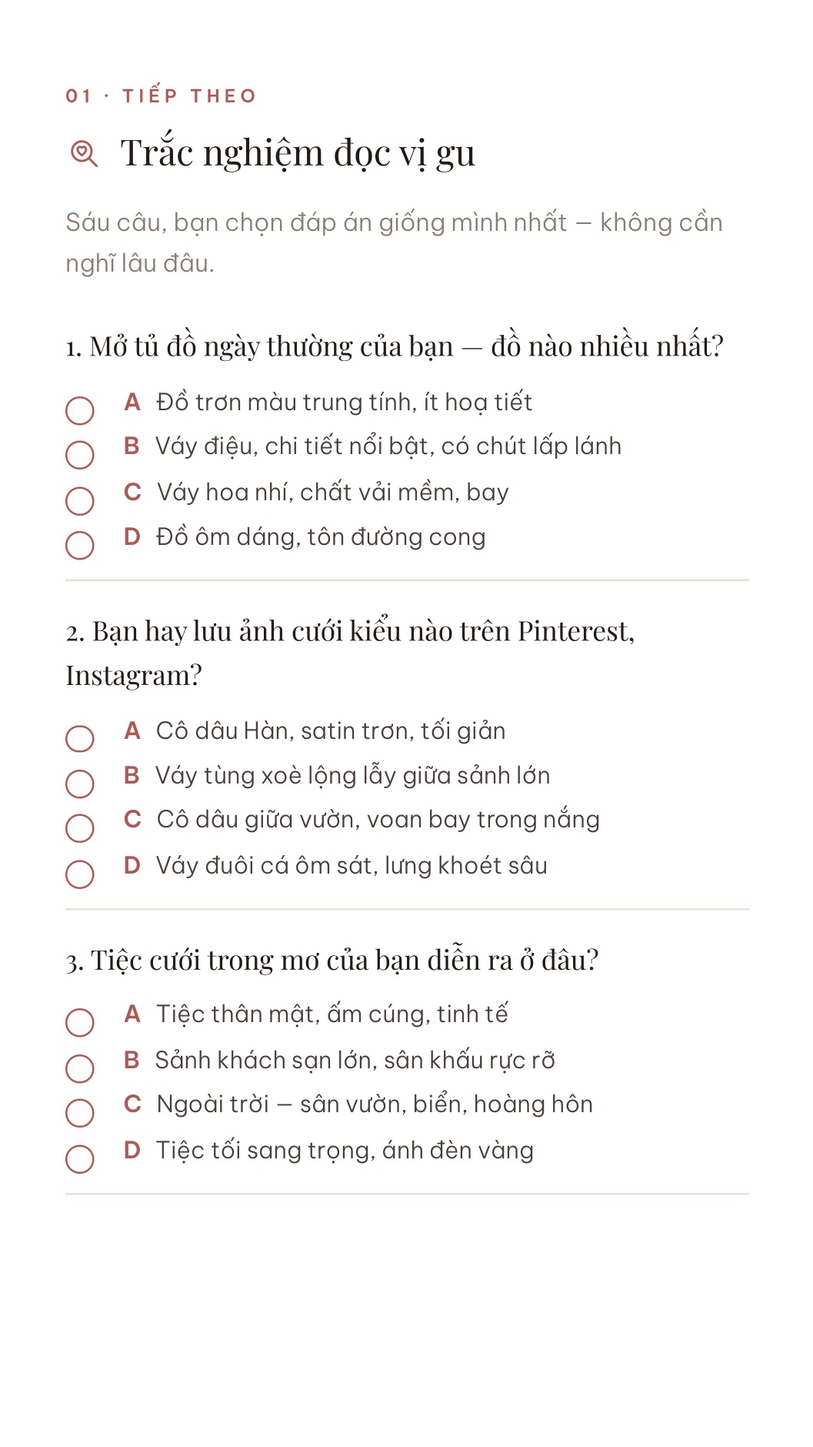
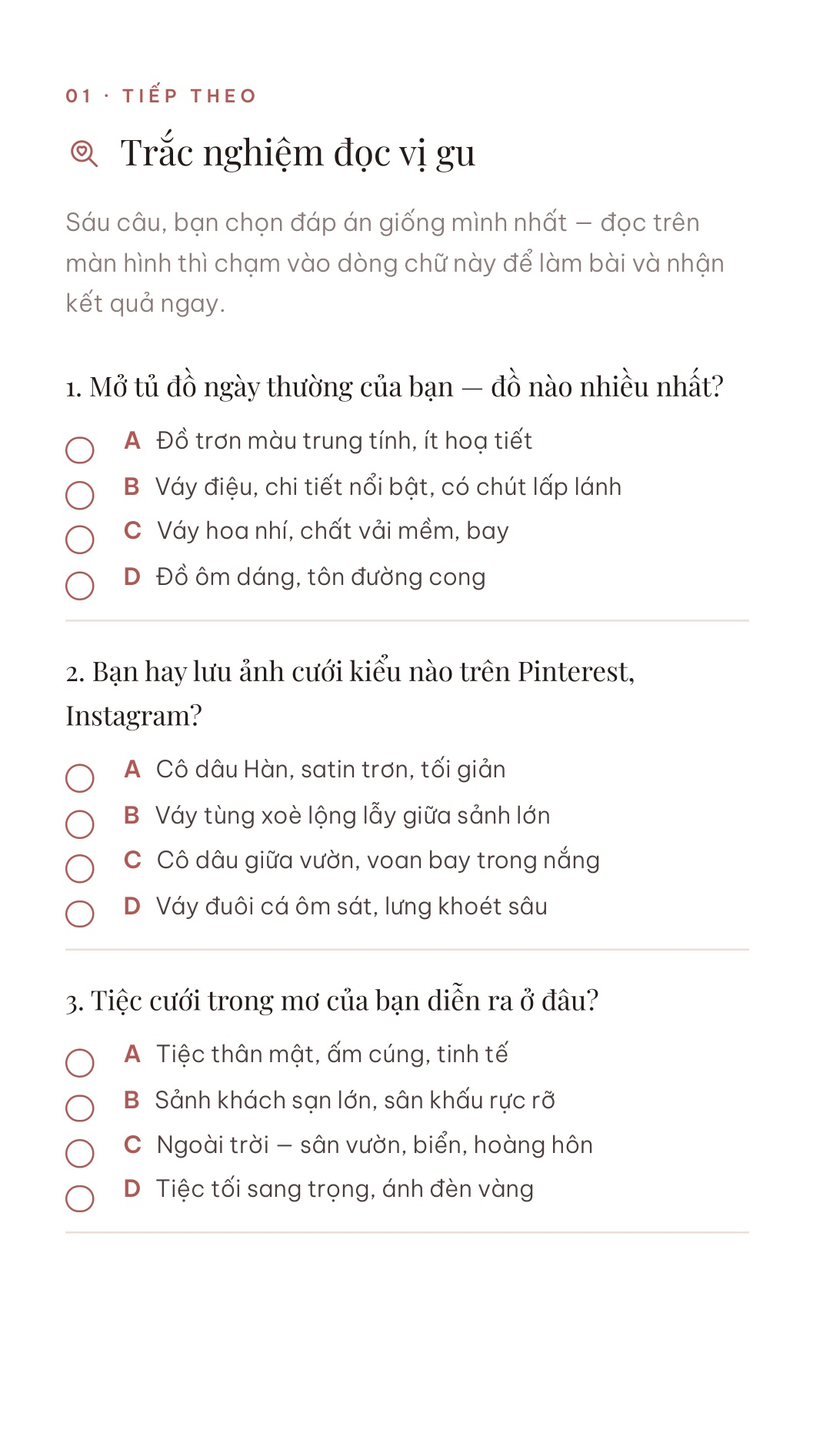
Ebook: trac nghiem gu BAM DUOC trong ban lat — diem bam mo bai lam that, chon du 6 cau ra ket qua gu (v y282149)

Changed region(s): [[0.0624, 0.1543, 0.8742, 0.833], [0.7181, 0.1234, 0.8742, 0.1851], [0.6244, 0.1543, 0.6556, 0.1851]]

diff --git a/dress-guide.html b/dress-guide.html
@@ -4,7 +4,7 @@
 <meta charset="utf-8">
 <meta name="viewport" content="width=device-width,initial-scale=1">
 <meta name="description" content="Cẩm nang tặng cô dâu: 7 điều cần biết trước khi chọn váy cưới — Dolinhanh Bridal.">
-<script>window.__ANH__=["dress-guide/t01.jpg?v=y282136", "dress-guide/t02.jpg?v=y282136", "dress-guide/t03.jpg?v=y282136", "dress-guide/t04.jpg?v=y282136", "dress-guide/t05.jpg?v=y282136", "dress-guide/t06.jpg?v=y282136", "dress-guide/t07.jpg?v=y282136", "dress-guide/t08.jpg?v=y282136", "dress-guide/t09.jpg?v=y282136", "dress-guide/t10.jpg?v=y282136", "dress-guide/t11.jpg?v=y282136", "dress-guide/t12.jpg?v=y282136", "dress-guide/t13.jpg?v=y282136", "dress-guide/t14.jpg?v=y282136", "dress-guide/t15.jpg?v=y282136", "dress-guide/t16.jpg?v=y282136", "dress-guide/t17.jpg?v=y282136", "dress-guide/t18.jpg?v=y282136", "dress-guide/t19.jpg?v=y282136", "dress-guide/t20.jpg?v=y282136", "dress-guide/t21.jpg?v=y282136", "dress-guide/t22.jpg?v=y282136", "dress-guide/t23.jpg?v=y282136", "dress-guide/t24.jpg?v=y282136", "dress-guide/t25.jpg?v=y282136", "dress-guide/t26.jpg?v=y282136", "dress-guide/t27.jpg?v=y282136"];window.__ANH_DT__=["dress-guide-dt/t001.jpg?v=y282136", "dress-guide-dt/t002.jpg?v=y282136", "dress-guide-dt/t003.jpg?v=y282136", "dress-guide-dt/t004.jpg?v=y282136", "dress-guide-dt/t005.jpg?v=y282136", "dress-guide-dt/t006.jpg?v=y282136", "dress-guide-dt/t007.jpg?v=y282136", "dress-guide-dt/t008.jpg?v=y282136", "dress-guide-dt/t009.jpg?v=y282136", "dress-guide-dt/t010.jpg?v=y282136", "dress-guide-dt/t011.jpg?v=y282136", "dress-guide-dt/t012.jpg?v=y282136", "dress-guide-dt/t013.jpg?v=y282136", "dress-guide-dt/t014.jpg?v=y282136", "dress-guide-dt/t015.jpg?v=y282136", "dress-guide-dt/t016.jpg?v=y282136", "dress-guide-dt/t017.jpg?v=y282136", "dress-guide-dt/t018.jpg?v=y282136", "dress-guide-dt/t019.jpg?v=y282136", "dress-guide-dt/t020.jpg?v=y282136", "dress-guide-dt/t021.jpg?v=y282136", "dress-guide-dt/t022.jpg?v=y282136", "dress-guide-dt/t023.jpg?v=y282136", "dress-guide-dt/t024.jpg?v=y282136", "dress-guide-dt/t025.jpg?v=y282136", "dress-guide-dt/t026.jpg?v=y282136", "dress-guide-dt/t027.jpg?v=y282136", "dress-guide-dt/t028.jpg?v=y282136", "dress-guide-dt/t029.jpg?v=y282136", "dress-guide-dt/t030.jpg?v=y282136", "dress-guide-dt/t031.jpg?v=y282136", "dress-guide-dt/t032.jpg?v=y282136", "dress-guide-dt/t033.jpg?v=y282136", "dress-guide-dt/t034.jpg?v=y282136", "dress-guide-dt/t035.jpg?v=y282136", "dress-guide-dt/t036.jpg?v=y282136", "dress-guide-dt/t037.jpg?v=y282136", "dress-guide-dt/t038.jpg?v=y282136", "dress-guide-dt/t039.jpg?v=y282136", "dress-guide-dt/t040.jpg?v=y282136", "dress-guide-dt/t041.jpg?v=y282136", "dress-guide-dt/t042.jpg?v=y282136", "dress-guide-dt/t043.jpg?v=y282136", "dress-guide-dt/t044.jpg?v=y282136", "dress-guide-dt/t045.jpg?v=y282136", "dress-guide-dt/t046.jpg?v=y282136", "dress-guide-dt/t047.jpg?v=y282136", "dress-guide-dt/t048.jpg?v=y282136", "dress-guide-dt/t049.jpg?v=y282136"];window.__TI_DT__=1.777;window.__DIEM_DT__=[{"nhan": "Chuẩn bị trước buổi thử", "ten": "Đồ lót nào mặc được?", "mo": "Nguyên tắc chung: màu nude, không quai, không gọng to, không đường viền. Bốn kiểu trong hình đều dùng được cho gần như mọi mẫu váy. Phần lớn váy cưới đã có corset nâng và mút đệm ngực khâu sẵn — nhiều cô dâu chỉ mặc quần lót nude là đủ.", "p": 10, "x": 0.213, "y": 0.2374, "w": 0.2757, "h": 0.0278, "toi": 12, "anh": "dress-guide/hs-dolot.jpg?v=y282136"}, {"nhan": "Chuẩn bị trước buổi thử", "ten": "Ngày cưới nên mang mấy đôi?", "mo": "Ba đôi là đủ cho mọi tình huống. Đế bánh mì đi trong váy xoè — tùng váy che kín dép, đứng cả buổi không mỏi chân. Cao gót cho những mẫu hở chân như đuôi cá hay xẻ tà, gót 5–7cm là vừa. Và một đôi đế thấp để trong phòng chờ, khi chân đã mỏi thì thay ra.", "p": 10, "x": 0.138, "y": 0.3438, "w": 0.7211, "h": 0.0571, "toi": 14, "anh": "dress-guide/hs-giay.jpg?v=y282136"}, {"nhan": "Chuẩn bị trước buổi thử", "ten": "Vì sao lại là 5 mẫu?", "mo": "Năm mẫu vừa đủ để so bốn dáng cơ bản và thêm một mẫu “lạ” cho biết, mà không loạn. Gửi trước danh sách cho studio để váy được treo sẵn — đỡ mất ba mươi phút đầu buổi chỉ để đi tìm váy.", "p": 10, "x": 0.5176, "y": 0.6563, "w": 0.3832, "h": 0.0278}, {"nhan": "Bước tiếp theo", "ten": "Cẩm nang cưới — 99.000đ", "mo": "Năm mươi tám trang, sáu chặng, mỗi chặng một màu và có ảnh riêng. Mở đầu bằng bài trắc nghiệm tính cách theo DISC cho cả hai người, rồi tới 30 câu hai người phải hỏi nhau, hai gia đình, sáu tháng chuẩn bị (gồm trọn phần chọn váy), ngày cưới, và phần sau đám cưới.", "lien": "https://dolinhanh-bridal.github.io/web-thu/mua-planner.html", "nutChu": "Xem thử vài trang", "p": 48, "x": 0.1372, "y": 0.4388, "w": 0.2862, "h": 0.1902, "anh": "dress-guide/hs-planner.jpg?v=y282136"}, {"nhan": "Bước tiếp theo", "ten": "Nhắn Zalo để nhận file", "mo": "Chuyển khoản xong, bạn nhắn ảnh chụp màn hình tới Zalo 035 995 0588. Dolinhanh gửi lại file PDF và đường dẫn đọc trên điện thoại ngay trong ngày.", "lien": "https://zalo.me/0359950588", "nutChu": "Mở Zalo 035 995 0588", "p": 48, "x": 0.3828, "y": 0.7382, "w": 0.2156, "h": 0.0251}];window.__DIEM__=[{"nhan": "Chuẩn bị trước buổi thử", "ten": "Đồ lót nào mặc được?", "mo": "Nguyên tắc chung: màu nude, không quai, không gọng to, không đường viền. Bốn kiểu trong hình đều dùng được cho gần như mọi mẫu váy. Phần lớn váy cưới đã có corset nâng và mút đệm ngực khâu sẵn — nhiều cô dâu chỉ mặc quần lót nude là đủ.", "p": 7, "x": 0.1707, "y": 0.2032, "w": 0.1469, "h": 0.0211, "toi": 8, "anh": "dress-guide/hs-dolot.jpg?v=y282136"}, {"nhan": "Chuẩn bị trước buổi thử", "ten": "Ngày cưới nên mang mấy đôi?", "mo": "Ba đôi là đủ cho mọi tình huống. Đế bánh mì đi trong váy xoè — tùng váy che kín dép, đứng cả buổi không mỏi chân. Cao gót cho những mẫu hở chân như đuôi cá hay xẻ tà, gót 5–7cm là vừa. Và một đôi đế thấp để trong phòng chờ, khi chân đã mỏi thì thay ra.", "p": 7, "x": 0.2229, "y": 0.2616, "w": 0.4041, "h": 0.0211, "toi": 9, "anh": "dress-guide/hs-giay.jpg?v=y282136"}, {"nhan": "Chuẩn bị trước buổi thử", "ten": "Vì sao lại là 5 mẫu?", "mo": "Năm mẫu vừa đủ để so bốn dáng cơ bản và thêm một mẫu “lạ” cho biết, mà không loạn. Gửi trước danh sách cho studio để váy được treo sẵn — đỡ mất ba mươi phút đầu buổi chỉ để đi tìm váy.", "p": 7, "x": 0.333, "y": 0.4108, "w": 0.2042, "h": 0.0211}, {"nhan": "Bước tiếp theo", "ten": "Cẩm nang cưới — 99.000đ", "mo": "Năm mươi tám trang, sáu chặng, mỗi chặng một màu và có ảnh riêng. Mở đầu bằng bài trắc nghiệm tính cách theo DISC cho cả hai người, rồi tới 30 câu hai người phải hỏi nhau, hai gia đình, sáu tháng chuẩn bị (gồm trọn phần chọn váy), ngày cưới, và phần sau đám cưới.", "lien": "https://dolinhanh-bridal.github.io/web-thu/mua-planner.html", "nutChu": "Xem thử vài trang", "p": 26, "x": 0.1248, "y": 0.7732, "w": 0.1525, "h": 0.1442, "anh": "dress-guide/hs-planner.jpg?v=y282136"}, {"nhan": "Bước tiếp theo", "ten": "Nhắn Zalo để nhận file", "mo": "Chuyển khoản xong, bạn nhắn ảnh chụp màn hình tới Zalo 035 995 0588. Dolinhanh gửi lại file PDF và đường dẫn đọc trên điện thoại ngay trong ngày.", "lien": "https://zalo.me/0359950588", "nutChu": "Mở Zalo 035 995 0588", "p": 26, "x": 0.3035, "y": 0.858, "w": 0.1149, "h": 0.0191}];</script>
+<script>window.__ANH__=["dress-guide/t01.jpg?v=y282149", "dress-guide/t02.jpg?v=y282149", "dress-guide/t03.jpg?v=y282149", "dress-guide/t04.jpg?v=y282149", "dress-guide/t05.jpg?v=y282149", "dress-guide/t06.jpg?v=y282149", "dress-guide/t07.jpg?v=y282149", "dress-guide/t08.jpg?v=y282149", "dress-guide/t09.jpg?v=y282149", "dress-guide/t10.jpg?v=y282149", "dress-guide/t11.jpg?v=y282149", "dress-guide/t12.jpg?v=y282149", "dress-guide/t13.jpg?v=y282149", "dress-guide/t14.jpg?v=y282149", "dress-guide/t15.jpg?v=y282149", "dress-guide/t16.jpg?v=y282149", "dress-guide/t17.jpg?v=y282149", "dress-guide/t18.jpg?v=y282149", "dress-guide/t19.jpg?v=y282149", "dress-guide/t20.jpg?v=y282149", "dress-guide/t21.jpg?v=y282149", "dress-guide/t22.jpg?v=y282149", "dress-guide/t23.jpg?v=y282149", "dress-guide/t24.jpg?v=y282149", "dress-guide/t25.jpg?v=y282149", "dress-guide/t26.jpg?v=y282149", "dress-guide/t27.jpg?v=y282149"];window.__ANH_DT__=["dress-guide-dt/t001.jpg?v=y282149", "dress-guide-dt/t002.jpg?v=y282149", "dress-guide-dt/t003.jpg?v=y282149", "dress-guide-dt/t004.jpg?v=y282149", "dress-guide-dt/t005.jpg?v=y282149", "dress-guide-dt/t006.jpg?v=y282149", "dress-guide-dt/t007.jpg?v=y282149", "dress-guide-dt/t008.jpg?v=y282149", "dress-guide-dt/t009.jpg?v=y282149", "dress-guide-dt/t010.jpg?v=y282149", "dress-guide-dt/t011.jpg?v=y282149", "dress-guide-dt/t012.jpg?v=y282149", "dress-guide-dt/t013.jpg?v=y282149", "dress-guide-dt/t014.jpg?v=y282149", "dress-guide-dt/t015.jpg?v=y282149", "dress-guide-dt/t016.jpg?v=y282149", "dress-guide-dt/t017.jpg?v=y282149", "dress-guide-dt/t018.jpg?v=y282149", "dress-guide-dt/t019.jpg?v=y282149", "dress-guide-dt/t020.jpg?v=y282149", "dress-guide-dt/t021.jpg?v=y282149", "dress-guide-dt/t022.jpg?v=y282149", "dress-guide-dt/t023.jpg?v=y282149", "dress-guide-dt/t024.jpg?v=y282149", "dress-guide-dt/t025.jpg?v=y282149", "dress-guide-dt/t026.jpg?v=y282149", "dress-guide-dt/t027.jpg?v=y282149", "dress-guide-dt/t028.jpg?v=y282149", "dress-guide-dt/t029.jpg?v=y282149", "dress-guide-dt/t030.jpg?v=y282149", "dress-guide-dt/t031.jpg?v=y282149", "dress-guide-dt/t032.jpg?v=y282149", "dress-guide-dt/t033.jpg?v=y282149", "dress-guide-dt/t034.jpg?v=y282149", "dress-guide-dt/t035.jpg?v=y282149", "dress-guide-dt/t036.jpg?v=y282149", "dress-guide-dt/t037.jpg?v=y282149", "dress-guide-dt/t038.jpg?v=y282149", "dress-guide-dt/t039.jpg?v=y282149", "dress-guide-dt/t040.jpg?v=y282149", "dress-guide-dt/t041.jpg?v=y282149", "dress-guide-dt/t042.jpg?v=y282149", "dress-guide-dt/t043.jpg?v=y282149", "dress-guide-dt/t044.jpg?v=y282149", "dress-guide-dt/t045.jpg?v=y282149", "dress-guide-dt/t046.jpg?v=y282149", "dress-guide-dt/t047.jpg?v=y282149", "dress-guide-dt/t048.jpg?v=y282149", "dress-guide-dt/t049.jpg?v=y282149"];window.__TI_DT__=1.777;window.__DIEM_DT__=[{"nhan": "Đọc vị bản thân", "ten": "Làm bài trắc nghiệm tại đây", "mo": "", "quiz": true, "p": 6, "x": 0.2713, "y": 0.1401, "w": 0.4323, "h": 0.0265}, {"nhan": "Chuẩn bị trước buổi thử", "ten": "Đồ lót nào mặc được?", "mo": "Nguyên tắc chung: màu nude, không quai, không gọng to, không đường viền. Bốn kiểu trong hình đều dùng được cho gần như mọi mẫu váy. Phần lớn váy cưới đã có corset nâng và mút đệm ngực khâu sẵn — nhiều cô dâu chỉ mặc quần lót nude là đủ.", "p": 10, "x": 0.213, "y": 0.2374, "w": 0.2757, "h": 0.0278, "toi": 12, "anh": "dress-guide/hs-dolot.jpg?v=y282149"}, {"nhan": "Chuẩn bị trước buổi thử", "ten": "Ngày cưới nên mang mấy đôi?", "mo": "Ba đôi là đủ cho mọi tình huống. Đế bánh mì đi trong váy xoè — tùng váy che kín dép, đứng cả buổi không mỏi chân. Cao gót cho những mẫu hở chân như đuôi cá hay xẻ tà, gót 5–7cm là vừa. Và một đôi đế thấp để trong phòng chờ, khi chân đã mỏi thì thay ra.", "p": 10, "x": 0.138, "y": 0.3438, "w": 0.7211, "h": 0.0571, "toi": 14, "anh": "dress-guide/hs-giay.jpg?v=y282149"}, {"nhan": "Chuẩn bị trước buổi thử", "ten": "Vì sao lại là 5 mẫu?", "mo": "Năm mẫu vừa đủ để so bốn dáng cơ bản và thêm một mẫu “lạ” cho biết, mà không loạn. Gửi trước danh sách cho studio để váy được treo sẵn — đỡ mất ba mươi phút đầu buổi chỉ để đi tìm váy.", "p": 10, "x": 0.5176, "y": 0.6563, "w": 0.3832, "h": 0.0278}, {"nhan": "Bước tiếp theo", "ten": "Cẩm nang cưới — 99.000đ", "mo": "Năm mươi tám trang, sáu chặng, mỗi chặng một màu và có ảnh riêng. Mở đầu bằng bài trắc nghiệm tính cách theo DISC cho cả hai người, rồi tới 30 câu hai người phải hỏi nhau, hai gia đình, sáu tháng chuẩn bị (gồm trọn phần chọn váy), ngày cưới, và phần sau đám cưới.", "lien": "https://dolinhanh-bridal.github.io/web-thu/mua-planner.html", "nutChu": "Xem thử vài trang", "p": 48, "x": 0.1372, "y": 0.4388, "w": 0.2862, "h": 0.1902, "anh": "dress-guide/hs-planner.jpg?v=y282149"}, {"nhan": "Bước tiếp theo", "ten": "Nhắn Zalo để nhận file", "mo": "Chuyển khoản xong, bạn nhắn ảnh chụp màn hình tới Zalo 035 995 0588. Dolinhanh gửi lại file PDF và đường dẫn đọc trên điện thoại ngay trong ngày.", "lien": "https://zalo.me/0359950588", "nutChu": "Mở Zalo 035 995 0588", "p": 48, "x": 0.3828, "y": 0.7382, "w": 0.2156, "h": 0.0251}];window.__DIEM__=[{"nhan": "Đọc vị bản thân", "ten": "Làm bài trắc nghiệm tại đây", "mo": "", "quiz": true, "p": 5, "x": 0.2013, "y": 0.153, "w": 0.2397, "h": 0.0207}, {"nhan": "Chuẩn bị trước buổi thử", "ten": "Đồ lót nào mặc được?", "mo": "Nguyên tắc chung: màu nude, không quai, không gọng to, không đường viền. Bốn kiểu trong hình đều dùng được cho gần như mọi mẫu váy. Phần lớn váy cưới đã có corset nâng và mút đệm ngực khâu sẵn — nhiều cô dâu chỉ mặc quần lót nude là đủ.", "p": 7, "x": 0.1707, "y": 0.2032, "w": 0.1469, "h": 0.0211, "toi": 8, "anh": "dress-guide/hs-dolot.jpg?v=y282149"}, {"nhan": "Chuẩn bị trước buổi thử", "ten": "Ngày cưới nên mang mấy đôi?", "mo": "Ba đôi là đủ cho mọi tình huống. Đế bánh mì đi trong váy xoè — tùng váy che kín dép, đứng cả buổi không mỏi chân. Cao gót cho những mẫu hở chân như đuôi cá hay xẻ tà, gót 5–7cm là vừa. Và một đôi đế thấp để trong phòng chờ, khi chân đã mỏi thì thay ra.", "p": 7, "x": 0.2229, "y": 0.2616, "w": 0.4041, "h": 0.0211, "toi": 9, "anh": "dress-guide/hs-giay.jpg?v=y282149"}, {"nhan": "Chuẩn bị trước buổi thử", "ten": "Vì sao lại là 5 mẫu?", "mo": "Năm mẫu vừa đủ để so bốn dáng cơ bản và thêm một mẫu “lạ” cho biết, mà không loạn. Gửi trước danh sách cho studio để váy được treo sẵn — đỡ mất ba mươi phút đầu buổi chỉ để đi tìm váy.", "p": 7, "x": 0.333, "y": 0.4108, "w": 0.2042, "h": 0.0211}, {"nhan": "Bước tiếp theo", "ten": "Cẩm nang cưới — 99.000đ", "mo": "Năm mươi tám trang, sáu chặng, mỗi chặng một màu và có ảnh riêng. Mở đầu bằng bài trắc nghiệm tính cách theo DISC cho cả hai người, rồi tới 30 câu hai người phải hỏi nhau, hai gia đình, sáu tháng chuẩn bị (gồm trọn phần chọn váy), ngày cưới, và phần sau đám cưới.", "lien": "https://dolinhanh-bridal.github.io/web-thu/mua-planner.html", "nutChu": "Xem thử vài trang", "p": 26, "x": 0.1248, "y": 0.7732, "w": 0.1525, "h": 0.1442, "anh": "dress-guide/hs-planner.jpg?v=y282149"}, {"nhan": "Bước tiếp theo", "ten": "Nhắn Zalo để nhận file", "mo": "Chuyển khoản xong, bạn nhắn ảnh chụp màn hình tới Zalo 035 995 0588. Dolinhanh gửi lại file PDF và đường dẫn đọc trên điện thoại ngay trong ngày.", "lien": "https://zalo.me/0359950588", "nutChu": "Mở Zalo 035 995 0588", "p": 26, "x": 0.3035, "y": 0.858, "w": 0.1149, "h": 0.0191}];</script>
 </head>
 <body>
 <title>The Bride's Dress Guide</title>
@@ -146,6 +146,22 @@
     border:1px solid #EEDFDB;background:#fff;color:#241B19;cursor:pointer;font-size:14px;line-height:1;
   }
 
+  /* ── trắc nghiệm đọc vị gu (làm ngay trong sách) ────── */
+  .qz-cau{margin-top:18px}
+  .qz-cau > b{display:block;font-family:var(--serif);font-weight:400;font-size:1.02rem;color:#241B19;margin-bottom:8px}
+  .qz-dap{display:grid;gap:6px}
+  .qz-dap button{
+    display:flex;align-items:baseline;gap:8px;text-align:left;width:100%;cursor:pointer;
+    border:1px solid #EEDFDB;background:#fff;color:#4C3E3B;border-radius:10px;
+    padding:9px 12px;font-family:var(--sans);font-size:.88rem;line-height:1.5;
+  }
+  .qz-dap button i{font-style:normal;font-weight:600;color:#B05A55;flex:none}
+  .qz-dap button.chon{background:#FDF0EE;border-color:#B05A55;color:#241B19}
+  .qz-kq{margin-top:20px;background:#FCF4EA;border-radius:10px;padding:16px 18px;font-size:.92rem;line-height:1.65;color:#4C3E3B}
+  .qz-kq .nhan-h{display:block;margin-bottom:6px}
+  .qz-kq h4{margin:0 0 6px;font-family:var(--serif);font-weight:400;font-size:1.25rem;color:#241B19}
+  .qz-lam-lai{margin-top:14px;background:none;border:0;cursor:pointer;color:#8B7B77;font-family:var(--sans);font-size:.72rem;letter-spacing:.08em;text-transform:uppercase;text-decoration:underline;padding:0}
+
   /* ── đọc to: phóng trang để đọc trên điện thoại ────── */
   .phong{position:fixed;inset:0;z-index:140;background:#fff;display:none;flex-direction:column}
   .phong.hien{display:flex}
@@ -229,6 +245,18 @@
   </div>
 </div>
 
+<div class="hop-nen" id="qz-nen">
+  <div class="hop-noi" role="dialog" aria-modal="true" aria-labelledby="qz-tieude">
+    <button class="hop-dong" id="qz-dong" aria-label="Đóng">✕</button>
+    <span class="nhan-h">Đọc vị bản thân</span>
+    <h3 id="qz-tieude">Trắc nghiệm đọc vị gu</h3>
+    <p style="margin-top:8px">Sáu câu, bạn chọn đáp án giống mình nhất — chọn đủ là kết quả hiện ngay bên dưới.</p>
+    <div id="qz-danh-sach"></div>
+    <div class="qz-kq" id="qz-kq" hidden></div>
+    <button class="qz-lam-lai" id="qz-lam-lai" hidden>Làm lại từ đầu</button>
+  </div>
+</div>
+
 <div class="luoi" id="luoi">
   <div class="dau">
     <b>Tất cả trang</b>
@@ -304,6 +332,7 @@
   var hopNen = document.getElementById('hop-nen');
 
   function moHop(d){
+    if (d.quiz){ moQuiz(); return; }
     var anh = document.getElementById('hop-anh');
     if (d.anh){ anh.src = d.anh; anh.hidden = false; } else { anh.hidden = true; anh.removeAttribute('src'); }
     document.getElementById('hop-nhan').textContent = d.nhan || 'Xem thêm';
@@ -391,6 +420,78 @@
 
   document.getElementById('hop-dong').addEventListener('click', function(){ hopNen.classList.remove('hien'); });
   hopNen.addEventListener('click', function(e){ if (e.target === hopNen) hopNen.classList.remove('hien'); });
+
+  /* ── trắc nghiệm đọc vị gu ── */
+  var QZ_NEN = document.getElementById('qz-nen');
+  var QZ = [
+    {q:'1. Mở tủ đồ ngày thường của bạn — đồ nào nhiều nhất?',
+     a:['Đồ trơn màu trung tính, ít hoạ tiết','Váy điệu, chi tiết nổi bật, có chút lấp lánh','Váy hoa nhí, chất vải mềm, bay','Đồ ôm dáng, tôn đường cong']},
+    {q:'2. Bạn hay lưu ảnh cưới kiểu nào trên Pinterest, Instagram?',
+     a:['Cô dâu Hàn, satin trơn, tối giản','Váy tùng xoè lộng lẫy giữa sảnh lớn','Cô dâu giữa vườn, voan bay trong nắng','Váy đuôi cá ôm sát, lưng khoét sâu']},
+    {q:'3. Tiệc cưới trong mơ của bạn diễn ra ở đâu?',
+     a:['Tiệc thân mật, ấm cúng, tinh tế','Sảnh khách sạn lớn, sân khấu rực rỡ','Ngoài trời — sân vườn, biển, hoàng hôn','Tiệc tối sang trọng, ánh đèn vàng']},
+    {q:'4. Trang sức ngày cưới, bạn chọn gì?',
+     a:['Ngọc trai nhỏ, hoặc chỉ một đôi bông tai','Vương miện và đá lấp lánh','Hoa tươi và voan mỏng cài tóc','Một món thật nổi bật, còn lại bỏ hết']},
+    {q:'5. Bạn muốn khách thốt lên câu nào khi bạn bước vào?',
+     a:['“Sang quá.”','“Đúng là công chúa.”','“Như bước ra từ giấc mơ.”','“Quyến rũ quá.”']},
+    {q:'6. Bạn sợ nhất điều gì khi mặc váy cưới?',
+     a:['Trông cố quá, không giống mình','Trông đơn giản quá, thiếu lộng lẫy','Trông cứng nhắc, thiếu lãng mạn','Trông an toàn, giống mọi cô dâu khác']}
+  ];
+  var QZ_KIEU = [
+    {ten:'Thanh lịch tối giản', mo:'Satin trơn, phom suông hoặc chữ A ít chi tiết — cái đẹp nằm ở đường cắt. Trong buổi thử, bạn hãy bắt đầu từ giá váy satin trơn.'},
+    {ten:'Công chúa lộng lẫy', mo:'Ballgown tùng xoè, đính kết lấp lánh, voan dài phía sau. Trong buổi thử, bạn hãy bắt đầu từ những mẫu tùng xoè.'},
+    {ten:'Mộng mơ bay bổng', mo:'Voan, organza nhiều lớp nhẹ như mây, tay voan mỏng. Trong buổi thử, bạn hãy bắt đầu từ những mẫu chất liệu bay.'},
+    {ten:'Quyến rũ hiện đại', mo:'Đuôi cá ôm dáng, ren xuyên thấu, lưng khoét sâu. Trong buổi thử, bạn hãy bắt đầu từ những mẫu ôm dáng.'}
+  ];
+  var qzChon = [];
+  function qzVe(){
+    var ds = document.getElementById('qz-danh-sach');
+    ds.innerHTML = '';
+    QZ.forEach(function(cau, i){
+      var khoi = document.createElement('div'); khoi.className = 'qz-cau';
+      var b = document.createElement('b'); b.textContent = cau.q; khoi.appendChild(b);
+      var dap = document.createElement('div'); dap.className = 'qz-dap';
+      cau.a.forEach(function(chu, j){
+        var nut = document.createElement('button');
+        nut.innerHTML = '<i>' + 'ABCD'[j] + '</i><span></span>';
+        nut.querySelector('span').textContent = chu;
+        if (qzChon[i] === j) nut.classList.add('chon');
+        nut.addEventListener('click', function(){ qzChon[i] = j; qzVe(); qzKetQua(); });
+        dap.appendChild(nut);
+      });
+      khoi.appendChild(dap); ds.appendChild(khoi);
+    });
+  }
+  function qzKetQua(){
+    var kq = document.getElementById('qz-kq');
+    var lamLai = document.getElementById('qz-lam-lai');
+    var du = QZ.every(function(_, i){ return typeof qzChon[i] === 'number'; });
+    if (!du){ kq.hidden = true; lamLai.hidden = true; return; }
+    var dem = [0,0,0,0];
+    qzChon.forEach(function(j){ dem[j]++; });
+    var max = Math.max.apply(null, dem);
+    var thang = [];
+    dem.forEach(function(so, j){ if (so === max) thang.push(j); });
+    var chu;
+    if (thang.length === 1){
+      var k = QZ_KIEU[thang[0]];
+      chu = '<span class="nhan-h">Kết quả của bạn</span><h4>Bạn là cô dâu ' + k.ten + '</h4>' + k.mo;
+    } else {
+      var ten = thang.map(function(j){ return QZ_KIEU[j].ten; }).join(' và ');
+      chu = '<span class="nhan-h">Kết quả của bạn</span><h4>Bạn là sự pha trộn: ' + ten + '</h4>'
+          + 'Hai hướng đều là bạn — cứ mang cả hai vào buổi thử, mặc lên rồi cơ thể sẽ tự chọn giúp bạn.';
+    }
+    chu += '<br><br>Bạn chụp màn hình kết quả này gửi Dolinhanh trước buổi thử nhé — studio sẽ treo sẵn những mẫu đúng gu của bạn.';
+    kq.innerHTML = chu; kq.hidden = false; lamLai.hidden = false;
+    kq.scrollIntoView({behavior:'smooth', block:'nearest'});
+  }
+  function moQuiz(){
+    qzVe(); qzKetQua();
+    QZ_NEN.classList.add('hien');
+  }
+  document.getElementById('qz-dong').addEventListener('click', function(){ QZ_NEN.classList.remove('hien'); });
+  QZ_NEN.addEventListener('click', function(e){ if (e.target === QZ_NEN) QZ_NEN.classList.remove('hien'); });
+  document.getElementById('qz-lam-lai').addEventListener('click', function(){ qzChon = []; qzVe(); qzKetQua(); });
 
   function hai(n){ return n < 10 ? '0' + n : '' + n; }
 

diff --git a/dress-guide-doc.html b/dress-guide-doc.html
@@ -418,7 +418,7 @@ th,td{padding:6px 4px}
 <section class="trang">
   <p class="nhan">01 · tiếp theo</p>
   <h2 style="font-size:17pt;margin-top:3mm"><span class="ico"><svg viewBox="0 0 24 24" fill="none" stroke="currentColor" stroke-width="1.5" stroke-linecap="round" stroke-linejoin="round" aria-hidden="true"><circle cx="11" cy="11" r="6.5"/><path d="M15.8 15.8L21 21"/><path d="M11 13.8s-2.8-1.9-2.8-3.8A1.6 1.6 0 0 1 11 8.7a1.6 1.6 0 0 1 2.8 1.3c0 1.9-2.8 3.8-2.8 3.8z"/></svg></span>Trắc nghiệm đọc vị gu</h2>
-  <p class="dan-ch" style="margin-top:4mm">Sáu câu, bạn chọn đáp án giống mình nhất — không cần nghĩ lâu đâu.</p>
+  <p class="dan-ch" style="margin-top:4mm">Sáu câu, bạn chọn đáp án giống mình nhất — đọc trên màn hình thì chạm vào dòng chữ này để làm bài và nhận kết quả ngay.</p>
   <div class="quiz">
     <div class="cau"><b>1. Mở tủ đồ ngày thường của bạn — đồ nào nhiều nhất?</b><div class="dap">
       <div><i>A</i>Đồ trơn màu trung tính, ít hoạ tiết</div>
